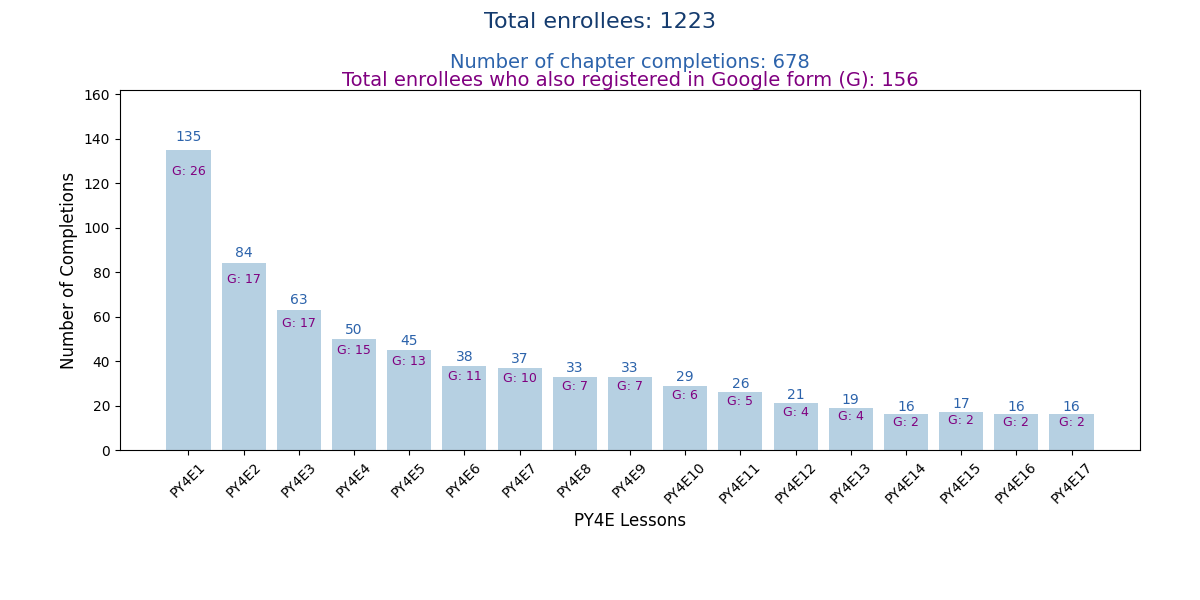
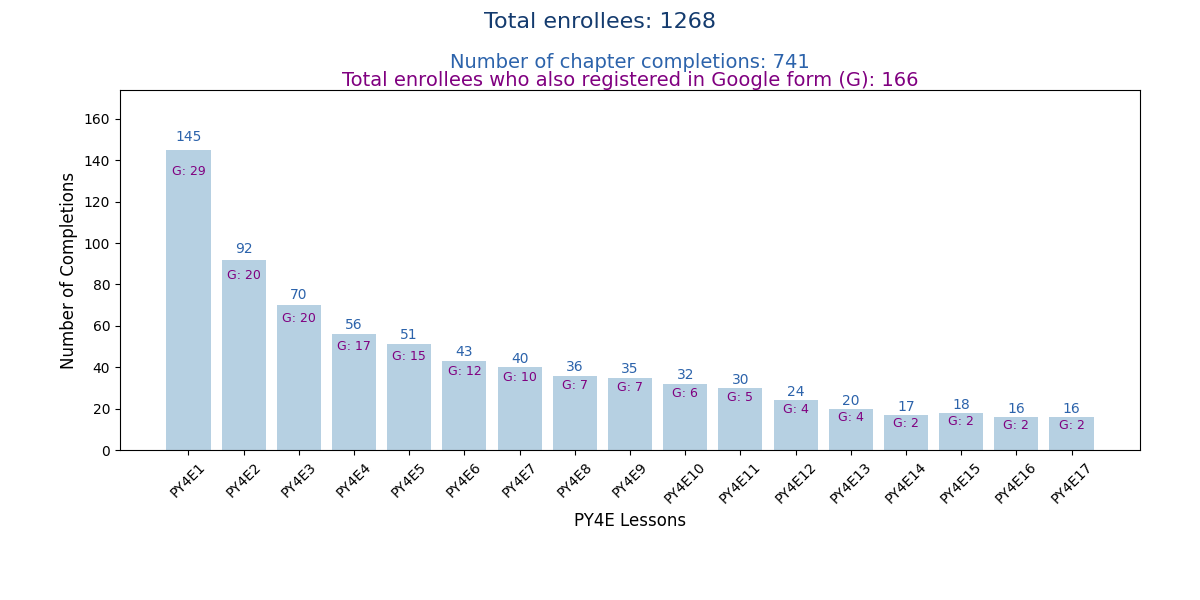
CitizenDev v3

diff --git a/templates/py4e/login.html b/templates/py4e/login.html
@@ -71,7 +71,7 @@
                 <div class="col-md-12">
                     <h2>The Citizen Developer Programme</h2>
                 </div>                
-                <!-- <img src="{{ url_for('static', filename='plot.png') }}" alt="Plot" /> -->                
+                <img src="{{ url_for('static', filename='plot.png') }}" alt="Plot" />
             </div>
             <br/>
             <div class="row">

diff --git a/py4e.py b/py4e.py
@@ -119,8 +119,6 @@ def dashboard():
         # Close the database connection
         cur.close()
 
-        # Commenting out matplotlib plotting
-        '''
         # Plot the graph
         fig, ax = plt.subplots(figsize=(12, 6))
         bars = ax.bar(py4e_done_counts.keys(), py4e_done_counts.values(), color='#B6D0E2')
@@ -173,13 +171,11 @@ def dashboard():
         img_path = os.path.join('static', 'plot.png')
         plt.savefig(img_path)
         plt.close()
-        '''
 
-        # Render the dashboard without the plot
-        return render_template("dashboard.html", username=username, users=users, user_status=user_status)
+        # Render the dashboard with the plot
+        return render_template("dashboard.html", username=username, users=users, user_status=user_status, graph_url=url_for('static', filename='plot.png'))
 
-    return redirect(url_for("login"))
-
+    return redirect(url_for("login")) 
 
 @app.route("/py4e/update/<username>", methods=["GET", "POST"])
 def update(username):
